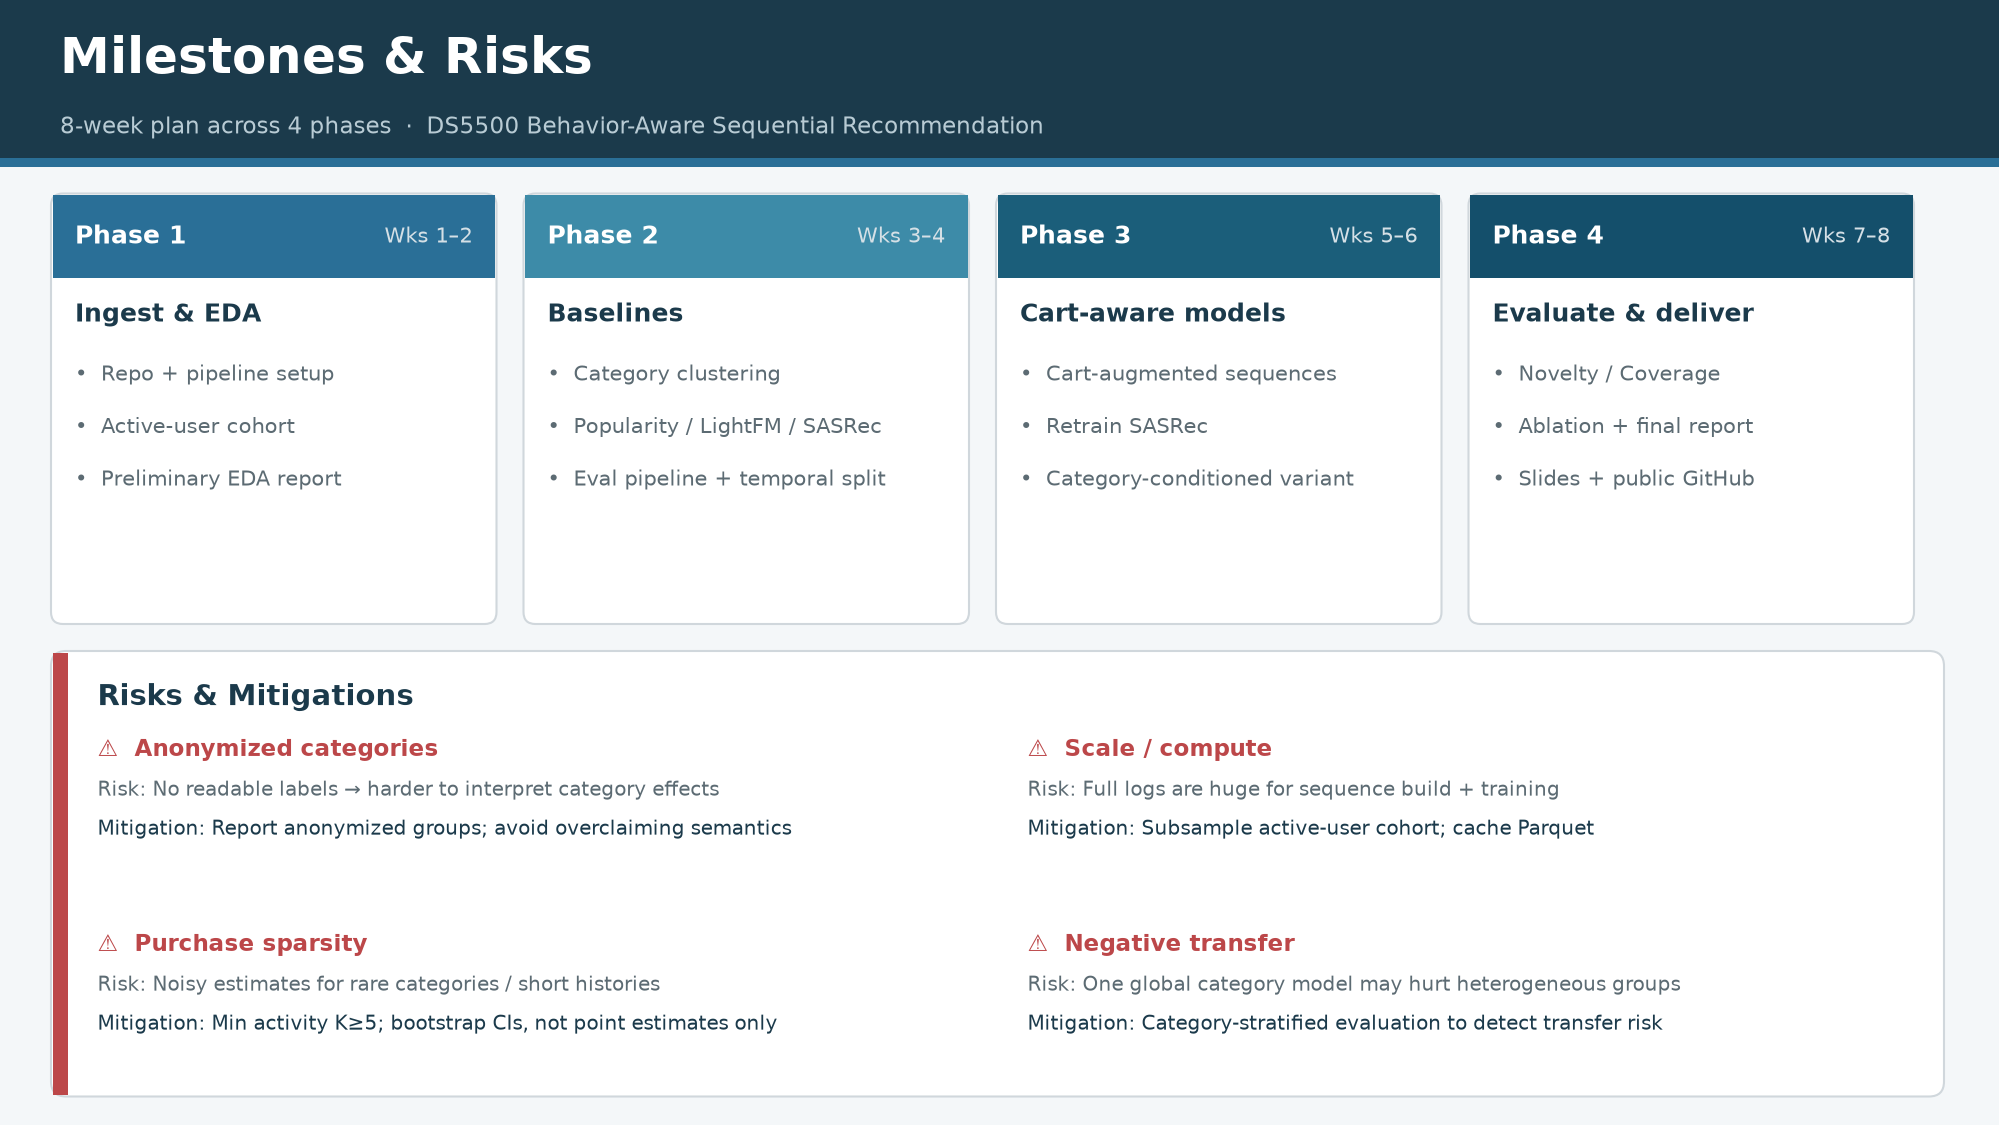
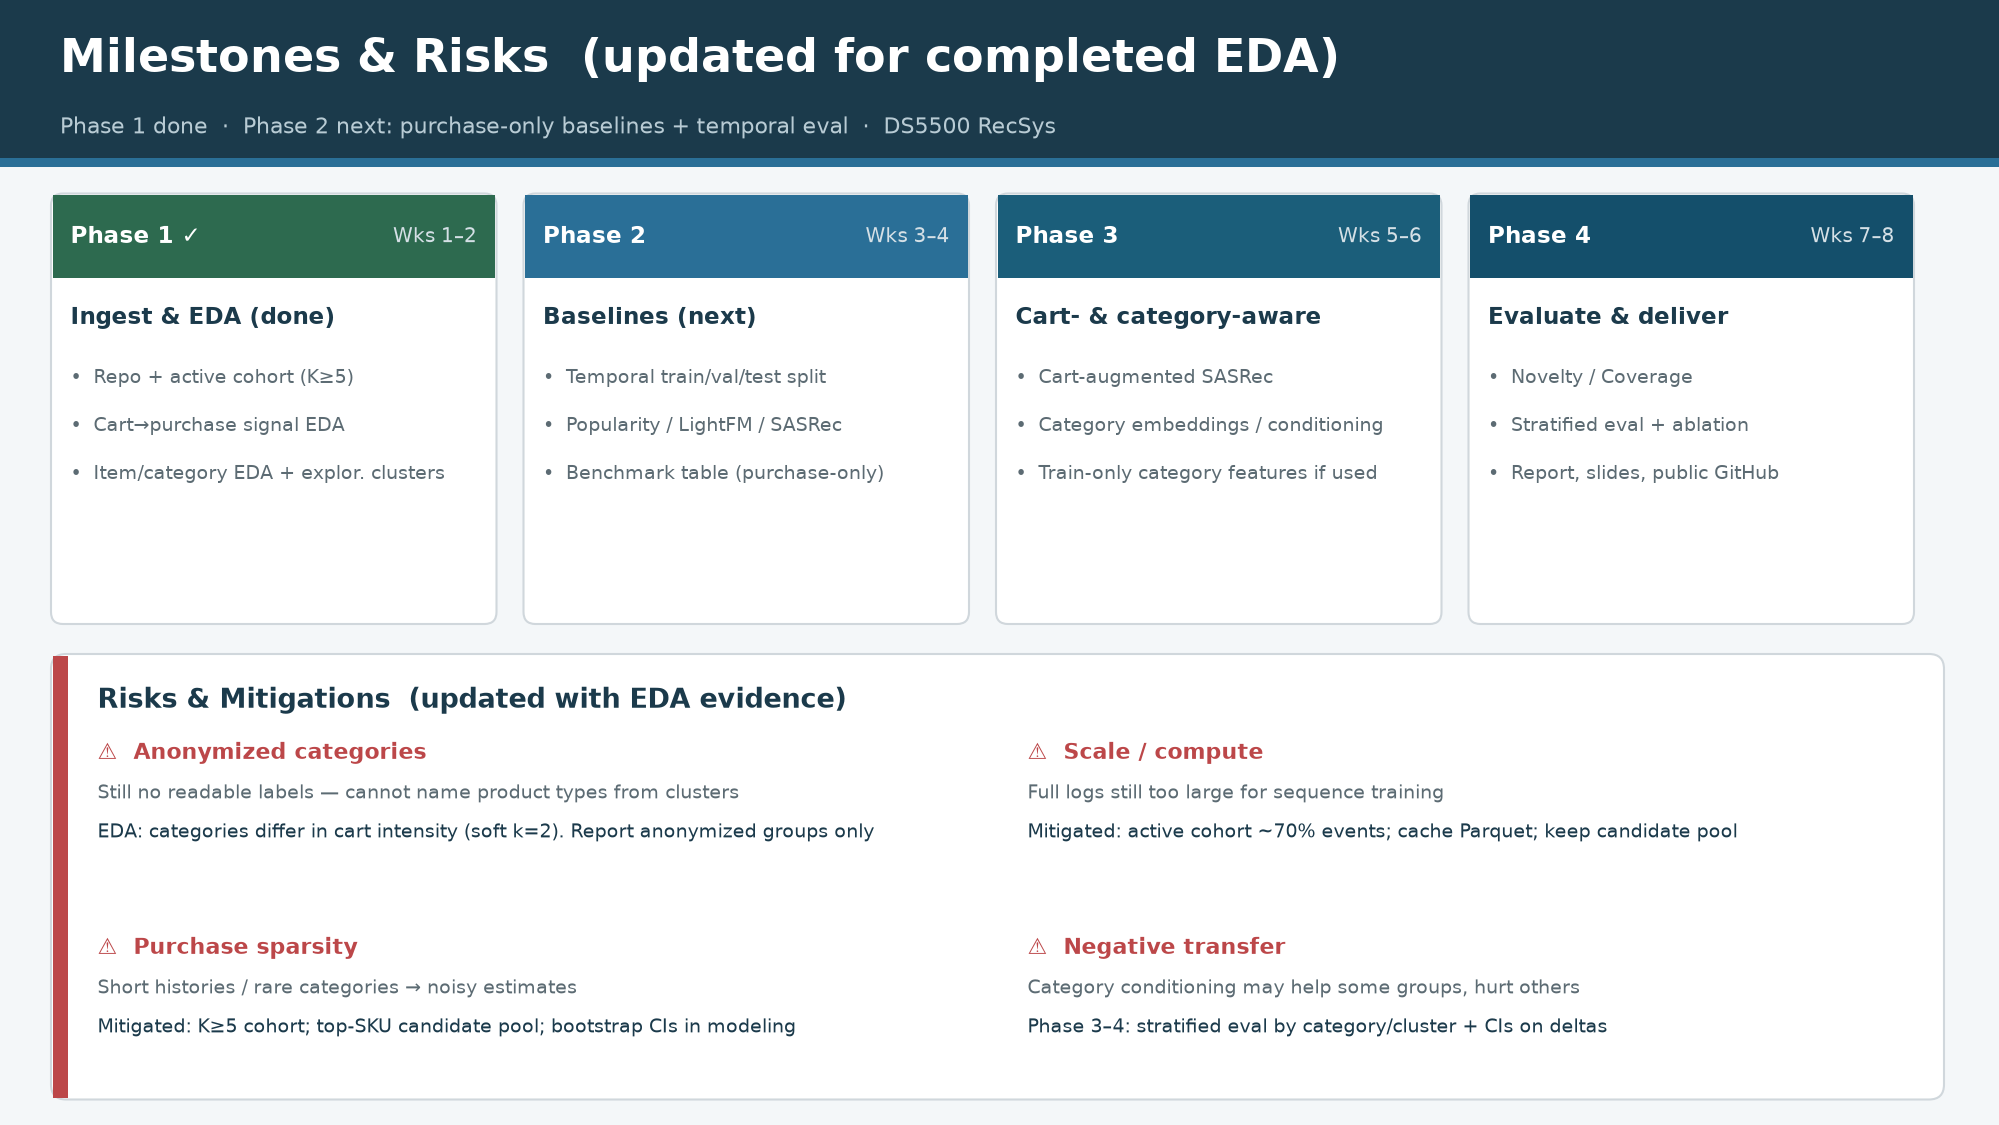
Update milestones slide to reflect completed EDA
Phase 1 marked done (cohort, cart→purchase, item/category EDA and
exploratory clustering). Phase 2 refocused on temporal split and
purchase-only baselines; risks annotated with EDA mitigations.

diff --git a/presentation/Milestones_and_Risks_Slide_NOTES.md b/presentation/Milestones_and_Risks_Slide_NOTES.md
@@ -1,33 +1,43 @@
-# Milestones & Risks — One Slide
+# Milestones & Risks — One Slide (updated after EDA)
 
-**File:** `presentation/Milestones_and_Risks_Slide.pptx` (16:9)  
-**Source:** DS5500 Project Proposal (Table 1 + Risks & Challenges)
+**File:** `presentation/Milestones_and_Risks_Slide.pptx` (16:9)
 
-## Title
-Milestones & Risks
+## Correction vs original proposal Table 1
 
-## Four phases (8 weeks)
+| Original Phase 2 item | Correction |
+|---|---|
+| “Category clustering” in Phase 2 | **Moved into Phase 1 (done)** as *exploratory* clustering in `ItemCategoryEDA.ipynb` |
+| Phase 1 = only preliminary EDA | Phase 1 now includes cart→purchase EDA + item/category EDA |
+| Phase 3 = cart then category | Keep both, but category-aware can use **raw category embeddings**; train-only behavioral clusters are optional |
 
-| Phase | Weeks | Focus | Key deliverables |
-|---|---|---|---|
-| **1** | 1–2 | Ingest & EDA | Repo/pipeline, active-user cohort, preliminary EDA |
-| **2** | 3–4 | Baselines | Category clustering; Popularity / LightFM / SASRec; eval + temporal split |
-| **3** | 5–6 | Cart-aware models | Cart-augmented sequences; retrain SASRec; category-conditioned variant |
-| **4** | 7–8 | Evaluate & deliver | Novelty/Coverage; ablation + report; slides + public GitHub |
+## Current status
 
-## Risks & mitigations
+### Phase 1 — Done (Wks 1–2): Ingest & EDA
+- Shared repo + Pandas ingestion / active-user cohort (**K≥5**, ~520K users)
+- Preliminary EDA (sparsity, cart availability)
+- Cart→purchase conversion + time-gap EDA (`Cart_to_Purchase_EDA.ipynb`)
+- Item popularity + category distribution + exploratory behavioral clustering (`ItemCategoryEDA.ipynb`)
 
-1. **Anonymized categories** — no human-readable labels → interpret carefully; report anonymized groups  
-2. **Scale / compute** — full logs are large → stratified active-user subsample + Parquet cache  
-3. **Purchase sparsity** — noisy rare-category estimates → K≥5 threshold + bootstrap CIs  
-4. **Negative transfer** — one category model may hurt some groups → category-stratified evaluation  
+### Phase 2 — Next (Wks 3–4): Purchase-only baselines
+- Temporal train / validation / test split (no leakage)
+- Popularity, LightFM, SASRec on **purchase-only** sequences
+- Fixed candidate item pool + benchmark table (NDCG@10, HitRate@10, MRR)
+
+### Phase 3 — Wks 5–6: Cart- & category-aware
+- Cart-augmented SASRec sequences
+- Category-conditioned / category-embedding variant
+- If using clusters in the model: rebuild **train-period-only** category features/clusters
+
+### Phase 4 — Wks 7–8: Evaluate & deliver
+- Novelty / Coverage
+- Category-stratified evaluation + ablation
+- Final report, slides, public GitHub
+
+## Risks (with EDA updates)
+1. **Anonymized categories** — still cannot name product types; EDA shows soft behavioral differences (k=2 cart intensity)
+2. **Scale / compute** — mitigated via active cohort (~70% events retained)
+3. **Purchase sparsity** — mitigated via K≥5; still need candidate pool + CIs
+4. **Negative transfer** — still open until stratified model eval
 
 ## One-sentence takeaway
-> We move from clean data → purchase-only baselines → cart-aware / category-aware models → final evaluation, with explicit mitigations for anonymization, scale, sparsity, and negative transfer.
-
-## Speaker notes (~45 sec)
-1. Eight weeks, four phases — each has a concrete deliverable.  
-2. Phase 1–2 set the data and purchase-only bar.  
-3. Phase 3 is the core experiment: does cart (and category) help?  
-4. Phase 4 checks popularity bias and packages the story.  
-5. Biggest risks are anonymized categories and sparsity; we mitigate with cohort filtering, CIs, and stratified eval.
+> Phase 1 EDA is complete (including exploratory category clustering); next we set the purchase-only baseline bar, then test whether cart and category signals improve ranking.
